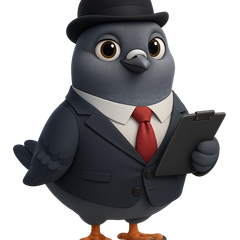
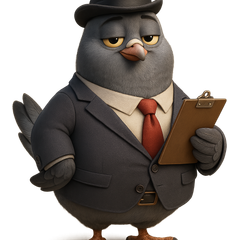
feat(clicker): голуби baker/manager → v4 (улучшенный стиль кота)
Подменил пекаря и управляющего на последние сгенерённые v4 (мягкое перо,
взгляд как у кота). Остальные 14 пока v3 (бюджет OpenAI исчерпан). BIZ_ART_V=4. v43→v44.

diff --git a/public/js/catclick.js b/public/js/catclick.js
@@ -119,7 +119,7 @@
   };
   const cardIcon = (id, s = 26) => ({ bakery: ICON.cupcake, coffee: ICON.coffee, oven: ICON.oven, cakefactory: ICON.cake, ads: ICON.megaphone, smm: ICON.send, tasting: ICON.star, loyalty: ICON.wallet, barista: ICON.coffee, baker: ICON.chef, confectioner: ICON.cupcake, manager: ICON.users, delivery: ICON.scooter, newshop: ICON.shop, franchise: ICON.gift, region: ICON.globe }[id] || ICON.cupcake)(s);
   // арт-плитка бизнеса: иллюстрация-PNG если есть (BIZ_ART_V>0), иначе SVG-иконка
-  const BIZ_ART_V = 3; // голуби-помощники /assets/images/biz/<id>.png (v3 — в стиле кота, по референсу)
+  const BIZ_ART_V = 4; // голуби-помощники /assets/images/biz/<id>.png (baker/manager → v4 улучшенный, остальные v3)
   const cardArt = (id) => BIZ_ART_V ? `<img src="/assets/images/biz/${id}.png?v=${BIZ_ART_V}" alt="" loading="lazy">` : cardIcon(id, 30);
   const taskIcon = (id) => ({ site: ICON.globe, review: ICON.star, vk: ICON.users, tg: ICON.send, invite1: ICON.users, level3: ICON.star, balance10: ICON.wallet, streak3: ICON.fire }[id] || ICON.star)(26);
 

diff --git a/public/index.html b/public/index.html
@@ -1273,7 +1273,7 @@
 <script src="/js/catfeed.js" defer></script>
 <script src="/js/catpet.js" defer></script>
 <script src="/js/catlive.js" defer></script>
-<script src="/js/catclick.js?v=43" defer></script>
+<script src="/js/catclick.js?v=44" defer></script>
 <!-- /js/bakery.js удалён — Игры убраны до новой геймификации (см. game.js — wheel/streak/secret) -->
 <script src="/js/chat.js" defer></script>
 <script src="/js/catalog.js" defer></script>
